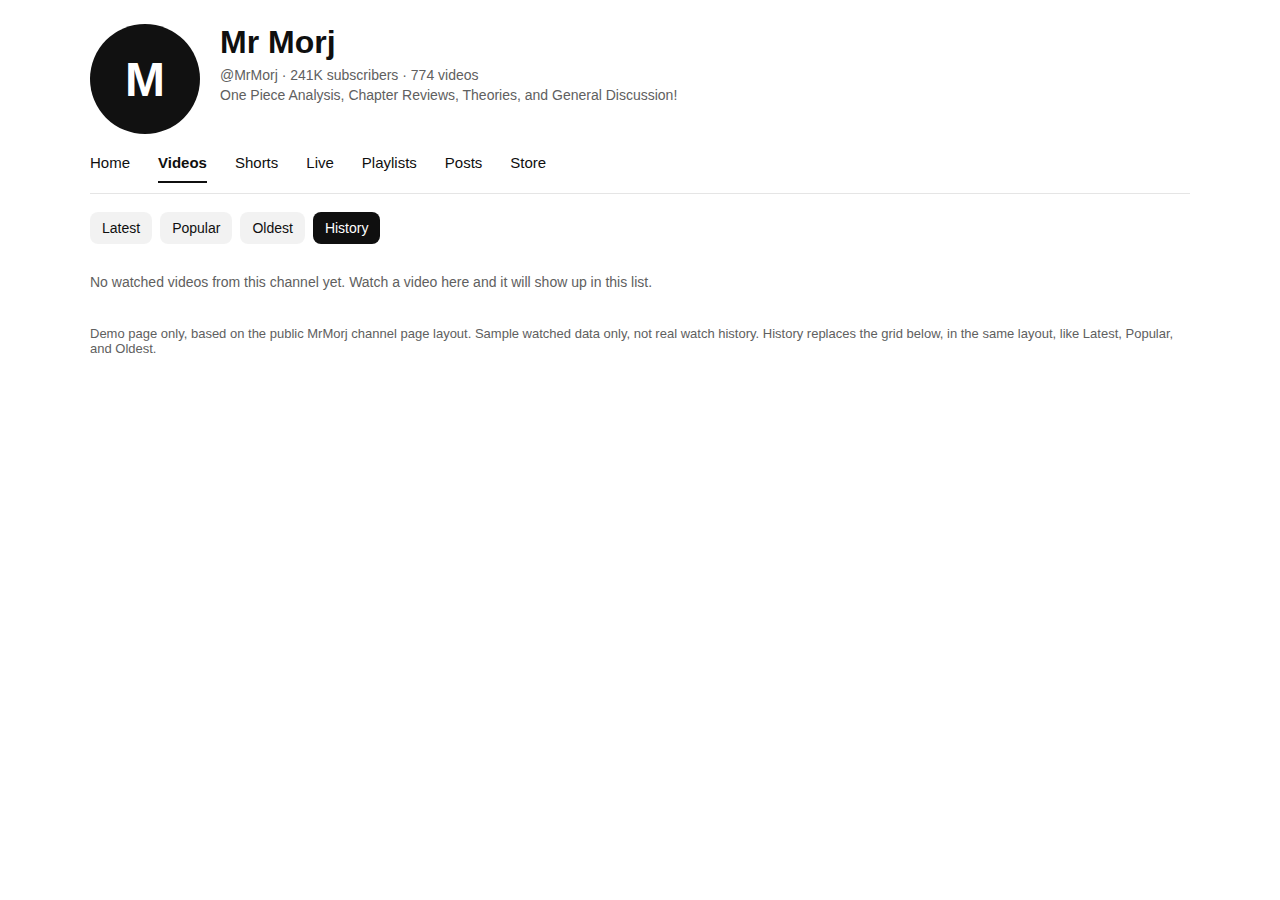
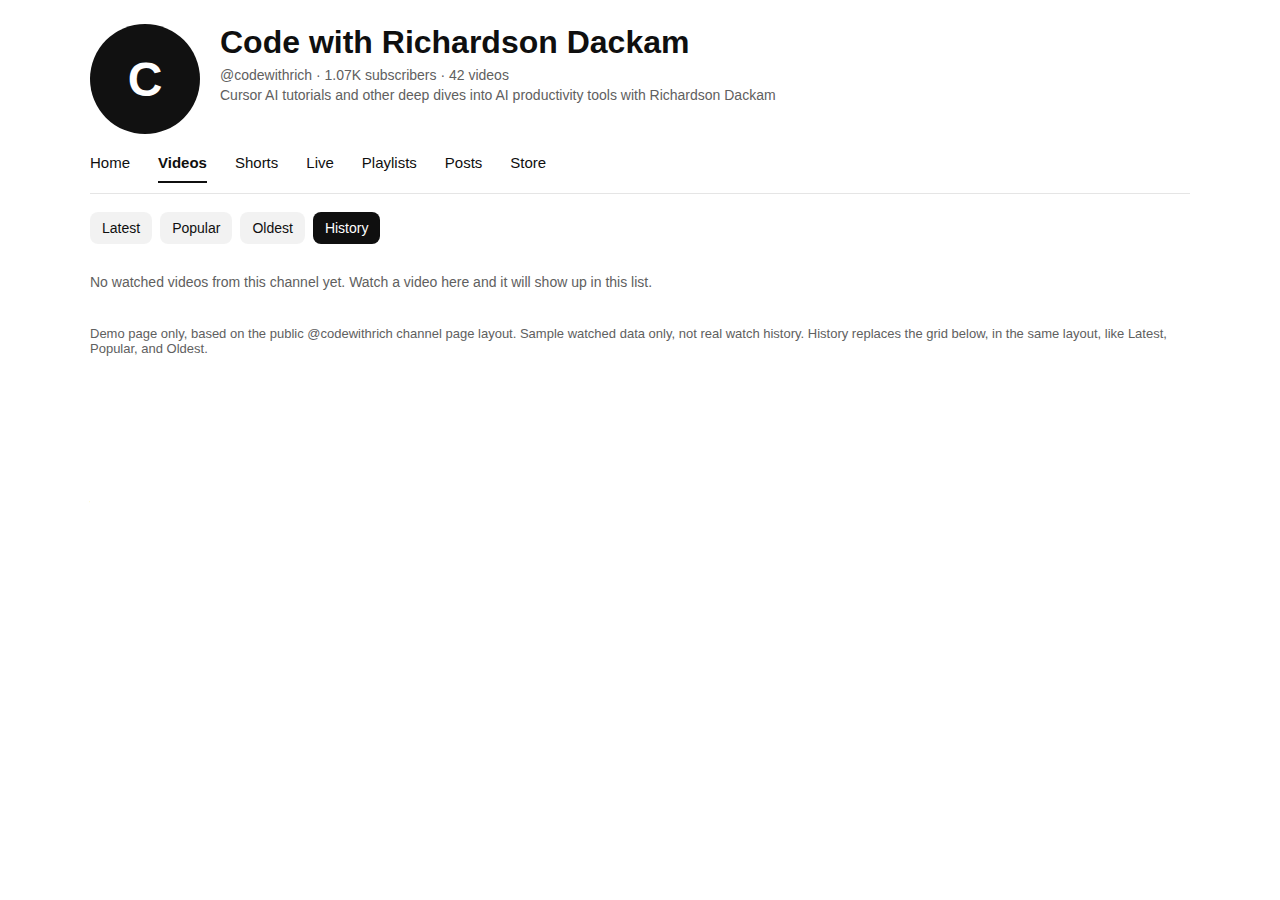
Use @codewithrich demo instead of MrMorj: verified channel facts and top videos, History grid screenshot

diff --git a/demo/channel-mock.html b/demo/channel-mock.html
@@ -2,7 +2,7 @@
 <html>
 <head>
 <meta charset="utf-8">
-<title>Mr Morj - Videos, demo</title>
+<title>Code with Richardson Dackam - Videos, demo</title>
 <link rel="stylesheet" href="../src/content.css">
 <style>
 body { font-family: Roboto, Arial, sans-serif; margin: 0 auto; max-width: 1100px; padding: 24px; color: #0f0f0f; }
@@ -19,11 +19,11 @@ chip-bar-view-model { display: block; margin: 18px 0; }
 </head>
 <body>
 <div class="header">
-<div class="avatar">M</div>
+<div class="avatar">C</div>
 <div>
-<h1>Mr Morj</h1>
-<p>@MrMorj &middot; 241K subscribers &middot; 774 videos</p>
-<p>One Piece Analysis, Chapter Reviews, Theories, and General Discussion!</p>
+<h1>Code with Richardson Dackam</h1>
+<p>@codewithrich &middot; 1.07K subscribers &middot; 42 videos</p>
+<p>Cursor AI tutorials and other deep dives into AI productivity tools with Richardson Dackam</p>
 </div>
 </div>
 <div class="tabs"><span>Home</span><b>Videos</b><span>Shorts</span><span>Live</span><span>Playlists</span><span>Posts</span><span>Store</span></div>
@@ -37,22 +37,22 @@ chip-bar-view-model { display: block; margin: 18px 0; }
 </div>
 <div id="contents">
 <div class="ytch-grid" id="original-grid">
-<a class="ytch-grid-item" href="https://www.youtube.com/watch?v=gBWEjKGmMBo"><img class="ytch-grid-thumb" src="thumb1.png" alt=""><span class="ytch-grid-title">Sanji: One Piece's Most Layered Character Arc</span><span class="ytch-grid-meta">65K &middot; 1d ago</span></a>
-<a class="ytch-grid-item" href="https://www.youtube.com/watch?v=vnmj5zKHLP0"><img class="ytch-grid-thumb" src="thumb2.png" alt=""><span class="ytch-grid-title">One Piece Chapter 1197 Review: A PHENOMENAL CHARACTER ARC!!</span><span class="ytch-grid-meta">79K &middot; 4d ago</span></a>
-<a class="ytch-grid-item" href="https://www.youtube.com/watch?v=6fYBELhYsDg"><img class="ytch-grid-thumb" src="thumb1.png" alt=""><span class="ytch-grid-title">Why Sanji And Usopp Have The Same Character Arc | Analysis</span><span class="ytch-grid-meta">60K &middot; 7d ago</span></a>
+<a class="ytch-grid-item" href="https://www.youtube.com/@codewithrich"><img class="ytch-grid-thumb" src="thumb1.png" alt=""><span class="ytch-grid-title">How I Generate PRDs to Build MVPs in a Weekend</span><span class="ytch-grid-meta">666 views &middot; 1y ago</span></a>
+<a class="ytch-grid-item" href="https://www.youtube.com/@codewithrich"><img class="ytch-grid-thumb" src="thumb2.png" alt=""><span class="ytch-grid-title">The 4 Pillars of AI Development (Most Teams Only Use One)</span><span class="ytch-grid-meta">683 views &middot; 1y ago</span></a>
+<a class="ytch-grid-item" href="https://www.youtube.com/@codewithrich"><img class="ytch-grid-thumb" src="thumb1.png" alt=""><span class="ytch-grid-title">Manual Workflow Building Is Dead</span><span class="ytch-grid-meta">396 views &middot; 1y ago</span></a>
 </div>
 </div>
 </ytd-rich-grid-renderer>
-<p class="note">Demo page only, based on the public MrMorj channel page layout. Sample watched data only, not real watch history. History replaces the grid below, in the same layout, like Latest, Popular, and Oldest.</p>
+<p class="note">Demo page only, based on the public @codewithrich channel page layout. Sample watched data only, not real watch history. History replaces the grid below, in the same layout, like Latest, Popular, and Oldest.</p>
 <script src="../src/shared.js"></script>
 <script>
 var watches = [
-  { videoId: "morj1", title: "Sanji: One Piece's Most Layered Character Arc", url: "https://www.youtube.com/watch?v=morj1", channelHandle: "MrMorj", watchedAt: new Date("2026-11-03T12:00:00Z").getTime(), thumbnail: "thumb1.png" },
-  { videoId: "morj2", title: "One Piece Chapter 1197 Review: A PHENOMENAL CHARACTER ARC!!", url: "https://www.youtube.com/watch?v=morj2", channelHandle: "MrMorj", watchedAt: new Date("2026-11-02T12:00:00Z").getTime(), thumbnail: "thumb2.png" },
-  { videoId: "morj3", title: "Why Sanji And Usopp Have The Same Character Arc | Analysis", url: "https://www.youtube.com/watch?v=morj3", channelHandle: "MrMorj", watchedAt: new Date("2026-10-31T12:00:00Z").getTime(), thumbnail: "thumb1.png" },
+  { videoId: "rich1", title: "How I Generate PRDs to Build MVPs in a Weekend", url: "https://www.youtube.com/watch?v=rich1", channelHandle: "codewithrich", watchedAt: new Date("2026-11-03T12:00:00Z").getTime(), thumbnail: "thumb1.png" },
+  { videoId: "rich2", title: "The 4 Pillars of AI Development (Most Teams Only Use One)", url: "https://www.youtube.com/watch?v=rich2", channelHandle: "codewithrich", watchedAt: new Date("2026-11-02T12:00:00Z").getTime(), thumbnail: "thumb2.png" },
+  { videoId: "rich3", title: "Manual Workflow Building Is Dead", url: "https://www.youtube.com/watch?v=rich3", channelHandle: "codewithrich", watchedAt: new Date("2026-10-31T12:00:00Z").getTime(), thumbnail: "thumb1.png" },
   { videoId: "other1", title: "Not this channel", url: "https://www.youtube.com/watch?v=other1", channelHandle: "OtherChannel", watchedAt: Date.now(), thumbnail: "thumb1.png" }
 ];
-var filtered = filterByChannel(watches, { handle: "MrMorj" });
+var filtered = filterByChannel(watches, { handle: "codewithrich" });
 var contents = document.getElementById("contents");
 var original = contents.innerHTML;
 var historyActive = false;

diff --git a/src/content.js b/src/content.js
@@ -33,7 +33,7 @@
   }
 
   function findChipBar() {
-    // Real YouTube markup, from the MrMorj page: a button with
+    // Real YouTube markup, from a channel Videos page: a button with
     // aria-label="Latest" inside a [role="tablist"] chip bar. The tablist,
     // not the first chip's wrapper, is the container to append to.
     // Appending to the wrapper is what put History on a second row.
